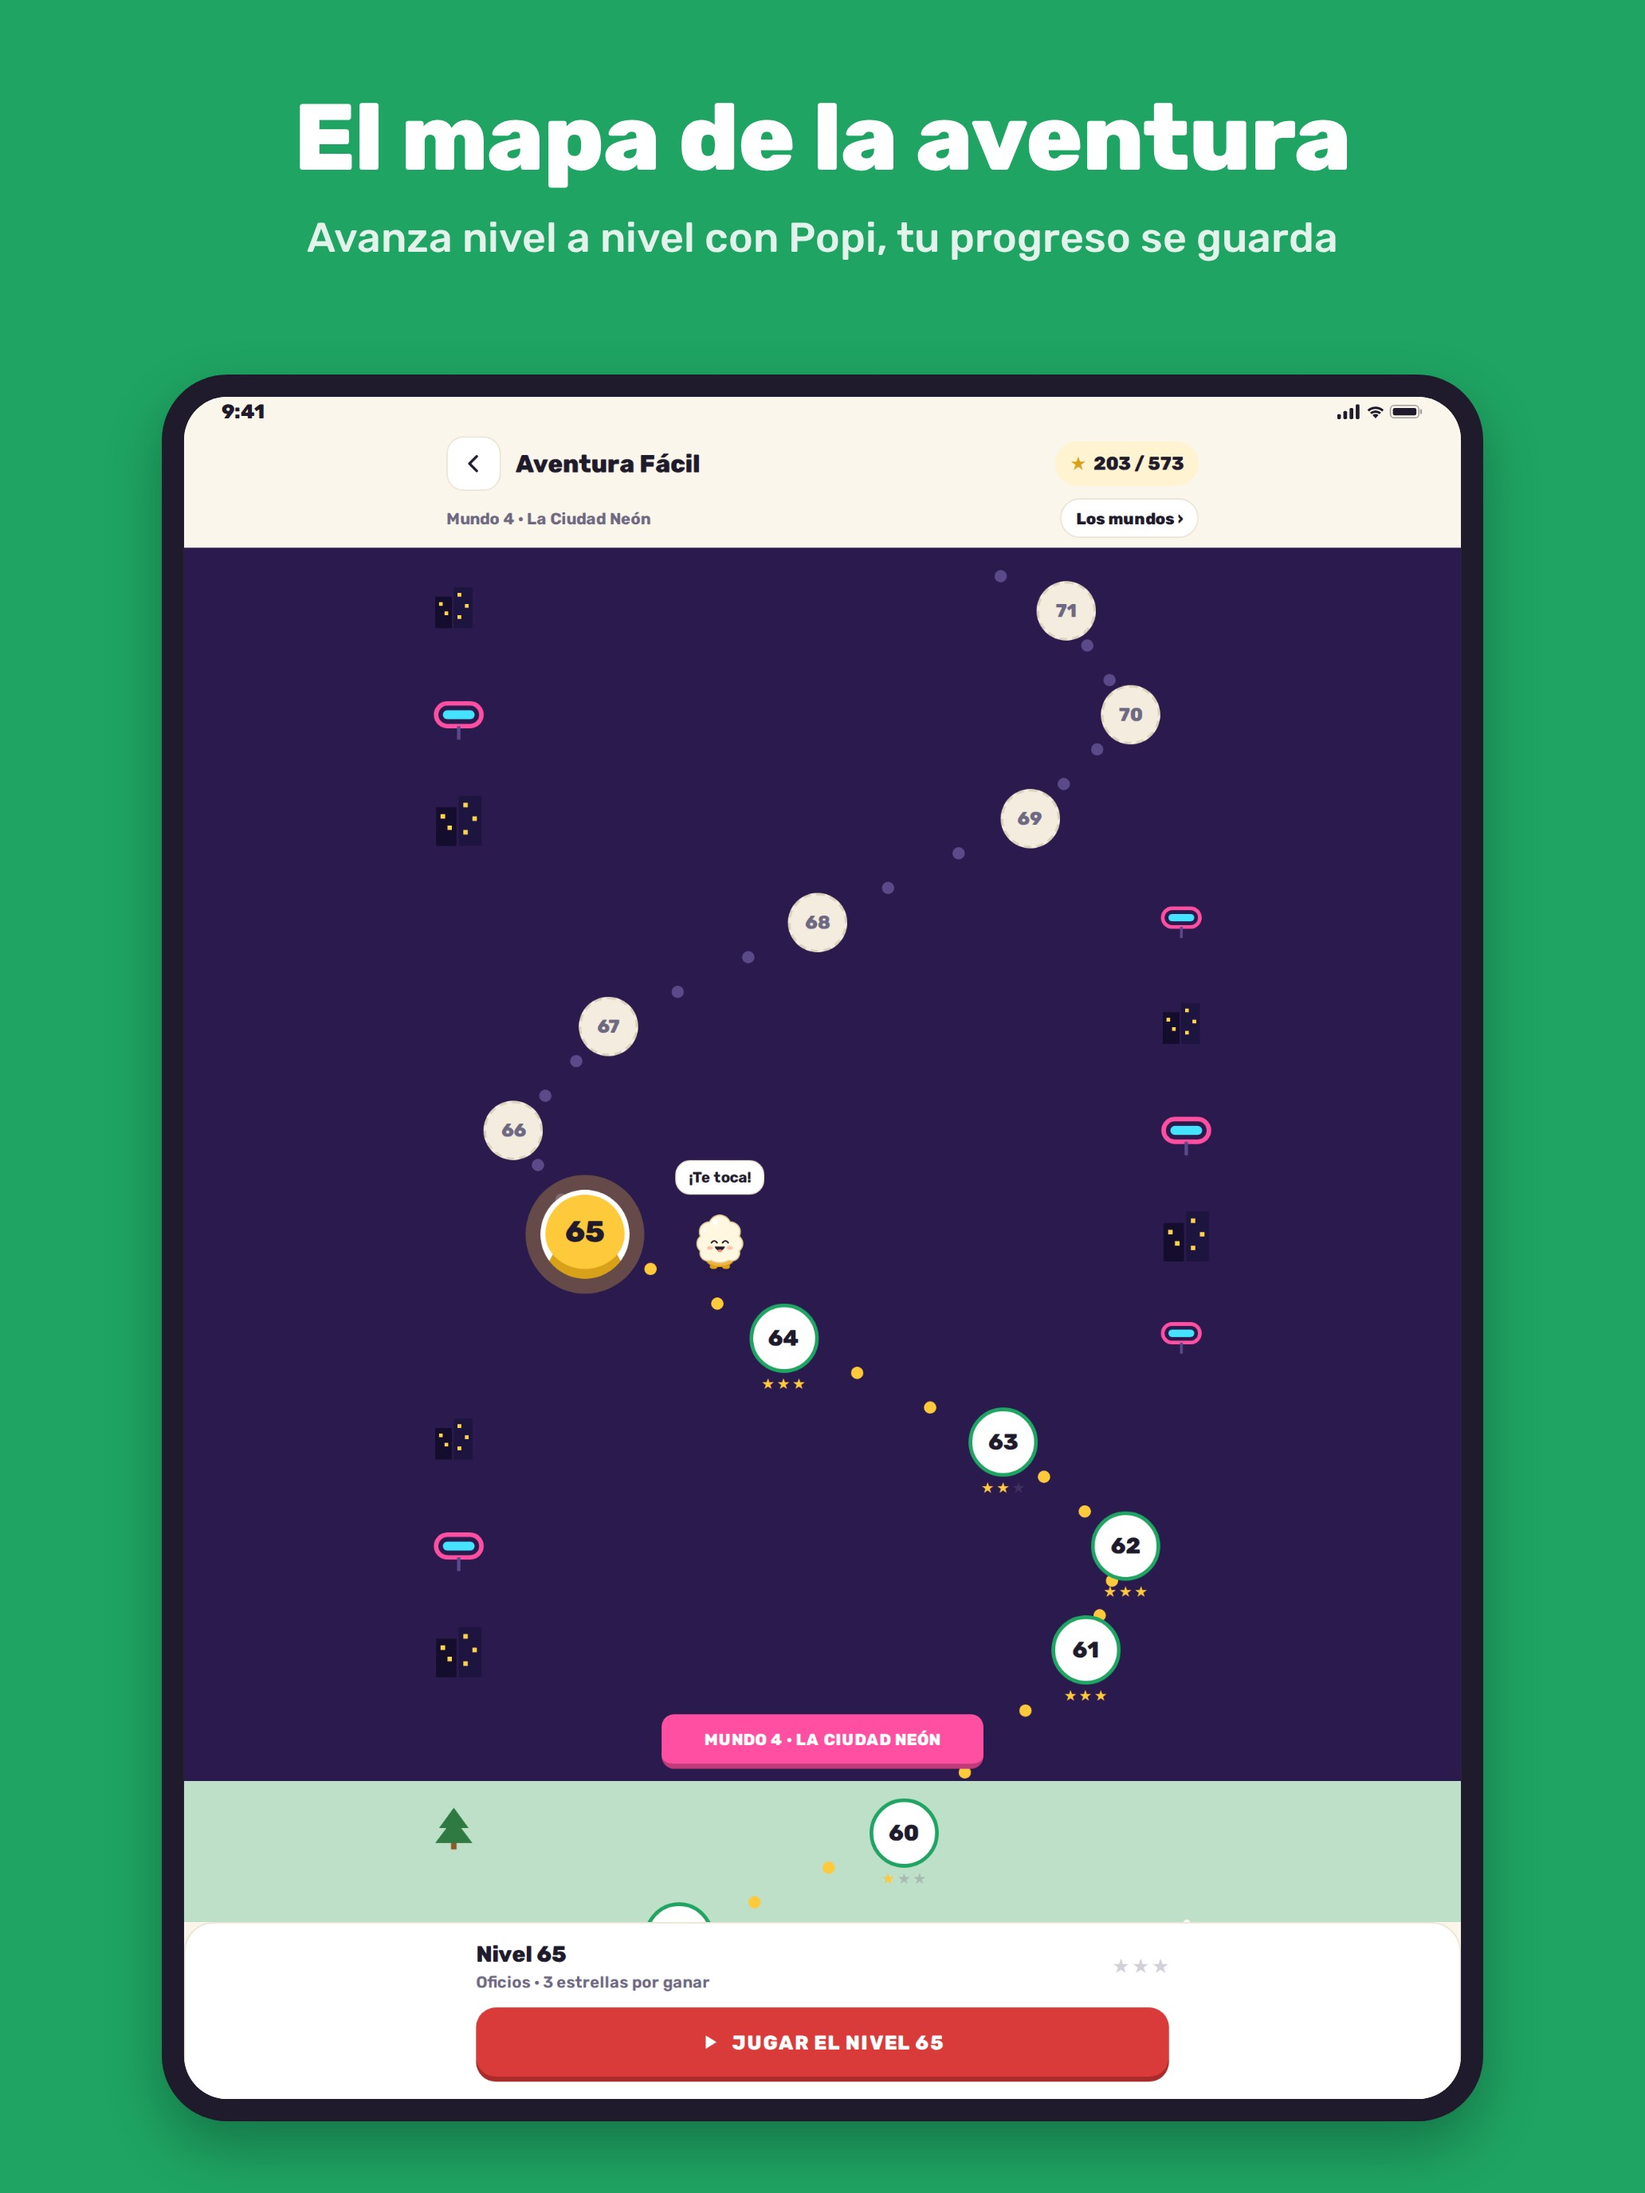
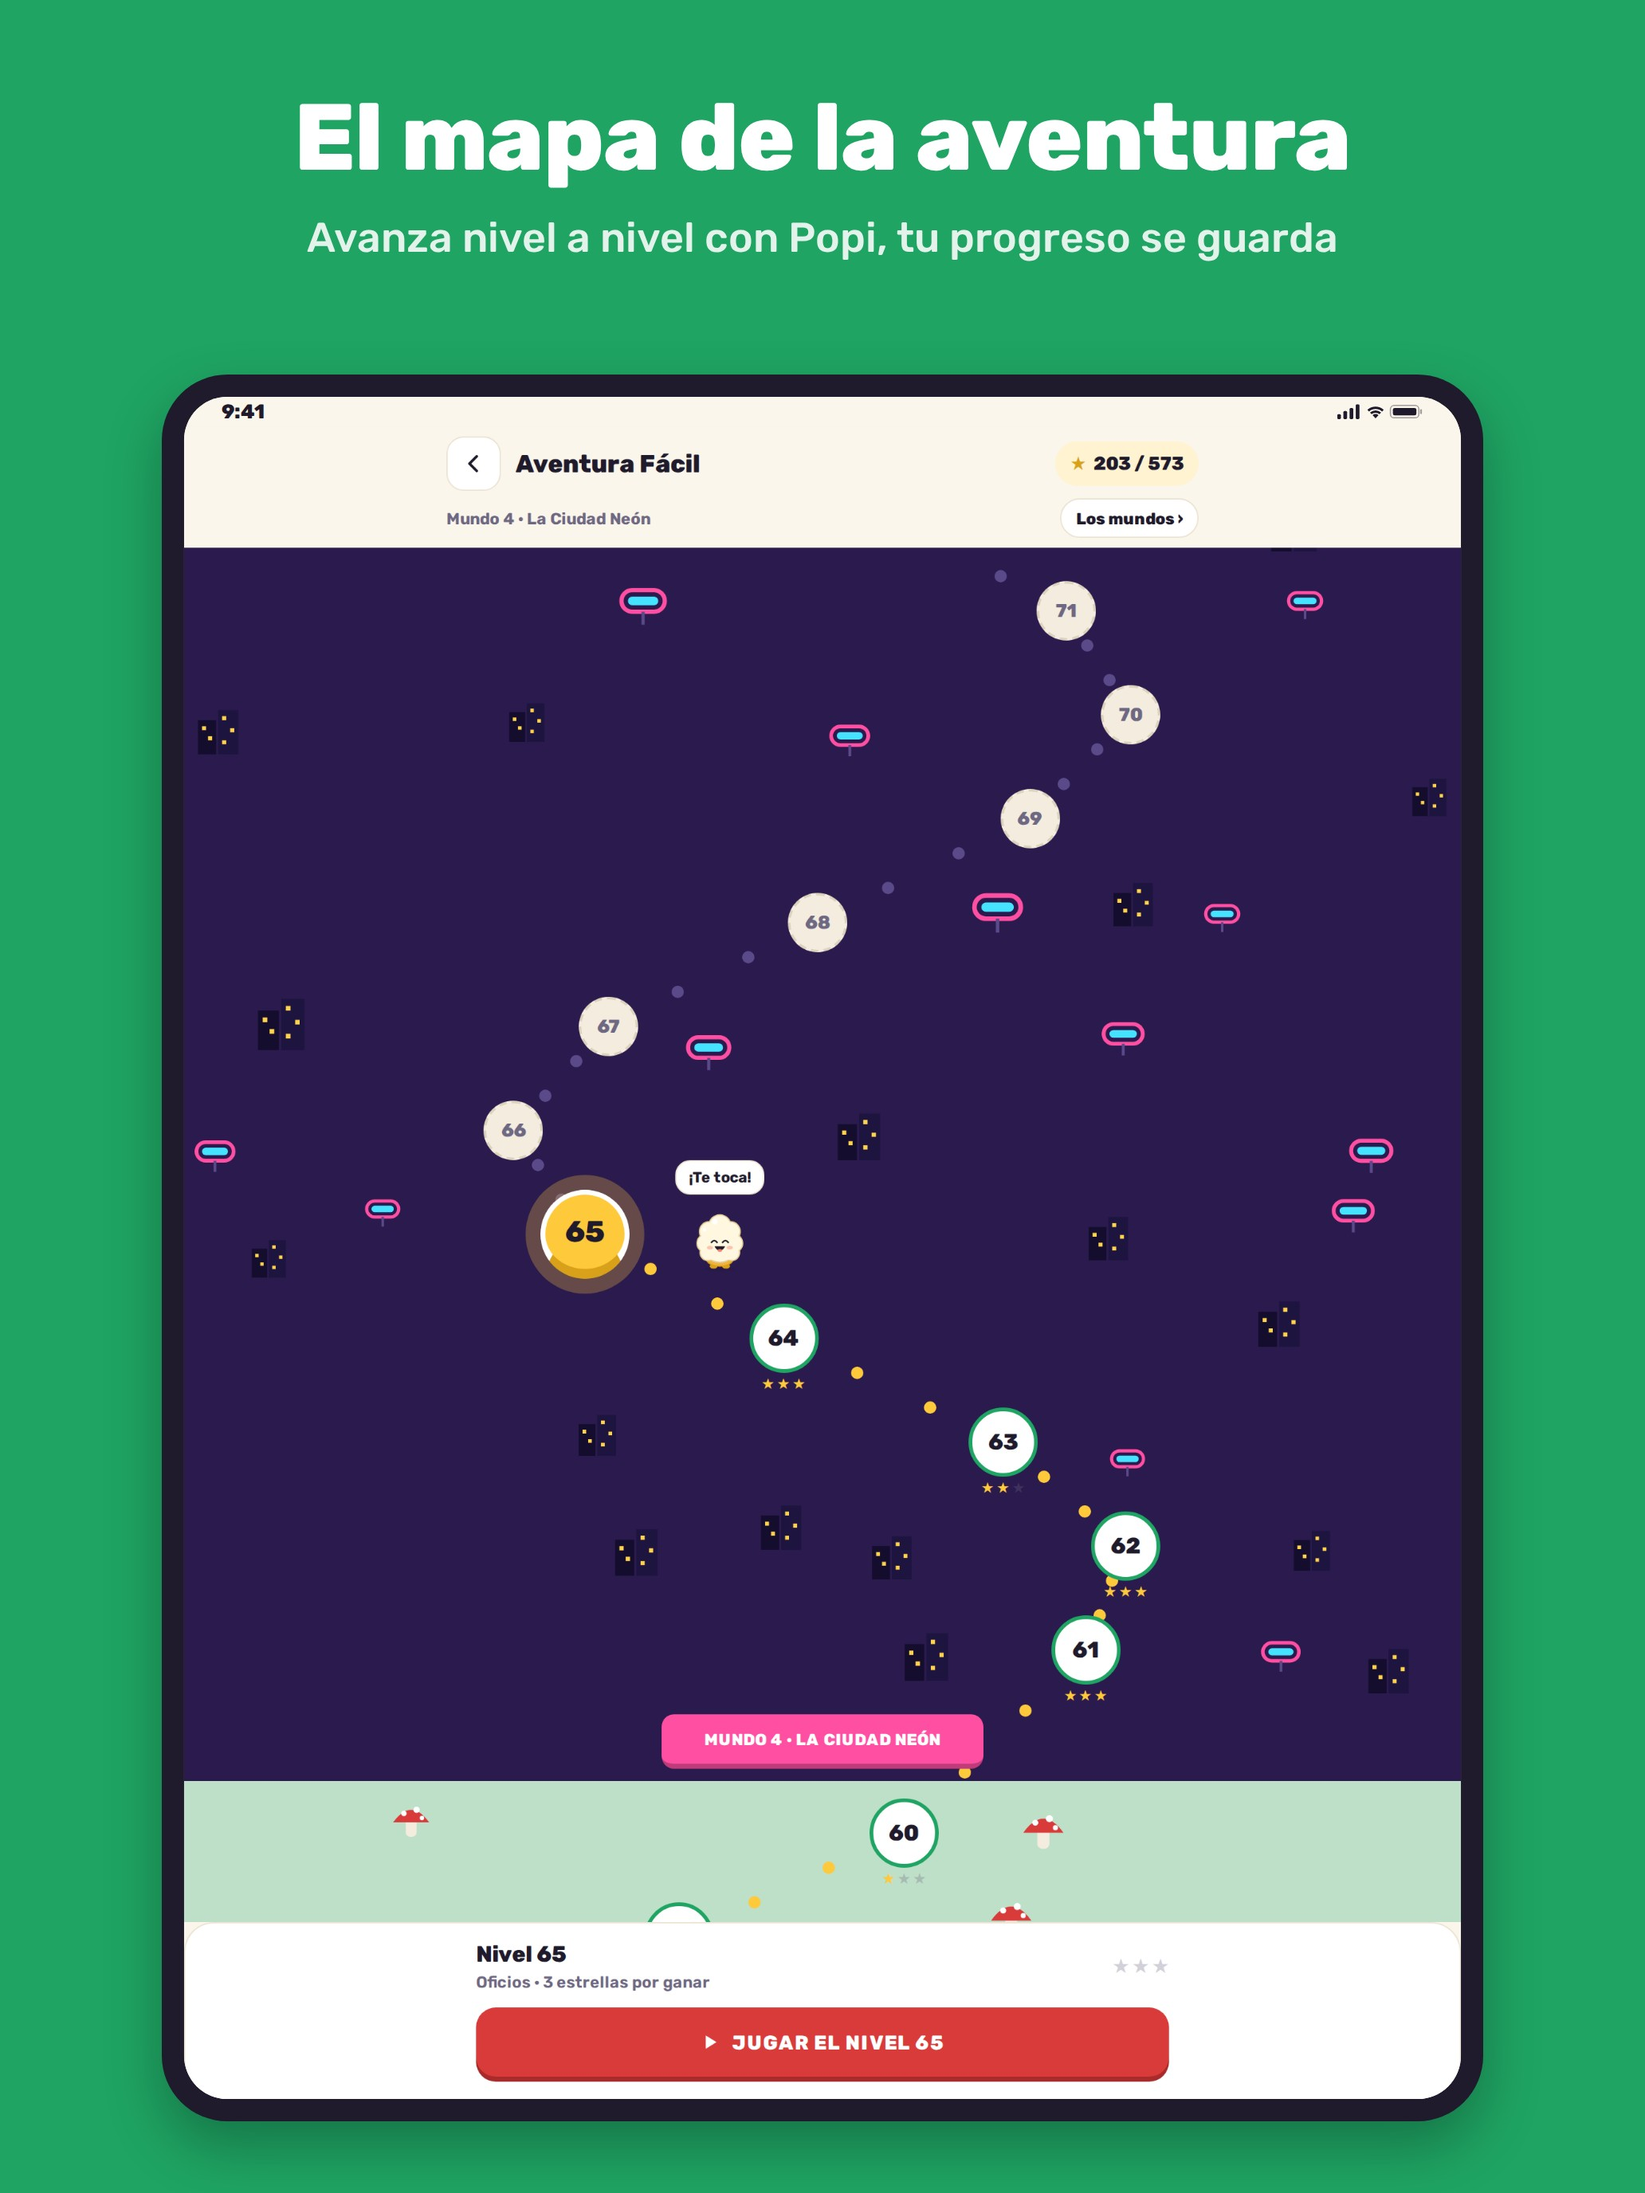
Map scenery scattered over the whole screen, clear of the path; refresh screenshots
Claude-Session: https://claude.ai/code/session_01BLg6ohMHupyk41E3TuaGCT

diff --git a/mobile/src/app/aventure.tsx b/mobile/src/app/aventure.tsx
@@ -8,6 +8,7 @@ import { Popi } from '@/components/mascot';
 import { Btn, Header, Screen, Tap, Txt } from '@/components/ui';
 import { WorldDeco } from '@/components/world-deco';
 import { one } from '@/game/links';
+import { mulberry32 } from '@/game/random';
 import { adventureIds, levelById, TIER_SIZE } from '@/game/rules';
 import type { Difficulty } from '@/game/types';
 import { worldOf } from '@/game/worlds';
@@ -28,33 +29,69 @@ interface MapLayout {
   banners: { tier: number; y: number }[];
   /** The ground of each tier's world, from its top to the bottom of its banner. */
   sections: { tier: number; top: number; bottom: number }[];
-  /** Scenery along the path, on the side the path is not. */
-  decos: { i: number; x: number; y: number }[];
+  /** Scenery scattered over the whole screen width, clear of the path (screen coordinates). */
+  decos: { key: string; tier: number; kind: 0 | 1; size: number; x: number; y: number }[];
   height: number;
 }
 
-const DECO = 44;
+/** How close a drawing may come to a level (centre to centre) and to the trail. */
+const NODE_GAP = 62;
+const TRAIL_GAP = 40;
 
-/** Lays the path out from the top (last level) down to level 1, winding left and right. */
-function layoutMap(total: number, width: number): MapLayout {
+/** Distance from point (x, y) to the segment a-b. */
+function toSegment(x: number, y: number, a: { x: number; y: number }, b: { x: number; y: number }) {
+  const dx = b.x - a.x;
+  const dy = b.y - a.y;
+  const k = Math.max(0, Math.min(1, ((x - a.x) * dx + (y - a.y) * dy) / (dx * dx + dy * dy || 1)));
+  return Math.hypot(x - a.x - k * dx, y - a.y - k * dy);
+}
+
+/**
+ * Lays the path out from the top (last level) down to level 1, winding left and right, in a
+ * column of `width` centred on a screen of `full` width. The scenery is scattered over the
+ * whole screen, always the same for a given size (seeded), and never on the path.
+ */
+function layoutMap(total: number, width: number, full: number): MapLayout {
   const pos: MapLayout['pos'] = new Array(total);
+  const rows: { i: number; top: number }[] = [];
   const banners: MapLayout['banners'] = [];
   const sections: MapLayout['sections'] = [];
-  const decos: MapLayout['decos'] = [];
   const swing = Math.max(0, width / 2 - 70);
+  const shift = (full - width) / 2;
   let y = PAD;
   let top = 0;
   for (let i = total - 1; i >= 0; i--) {
-    const side = Math.sin(i * 0.75);
-    pos[i] = { x: width / 2 + swing * side, y: y + ROW / 2 };
-    // A drawing next to every level, on the side the path is not.
-    decos.push({ i, x: side > 0 ? 4 : width - DECO - 4, y: y + ROW / 2 - DECO / 2 });
+    pos[i] = { x: width / 2 + swing * Math.sin(i * 0.75), y: y + ROW / 2 };
+    rows.push({ i, top: y });
     y += ROW;
     if (i % TIER_SIZE === 0) {
       banners.push({ tier: i / TIER_SIZE, y });
       y += BANNER;
       sections.push({ tier: i / TIER_SIZE, top, bottom: i === 0 ? y + PAD : y });
       top = y;
+    }
+  }
+
+  const decos: MapLayout['decos'] = [];
+  const rng = mulberry32(total * 7919 + Math.round(full));
+  const tries = Math.max(3, Math.round(full / 260));
+  for (const { i, top: rowTop } of rows) {
+    const here = { x: pos[i].x + shift, y: pos[i].y };
+    const near = [pos[i + 1], pos[i - 1]].filter(Boolean).map((q) => ({ x: q.x + shift, y: q.y }));
+    const placed: { x: number; y: number; r: number }[] = [];
+    for (let k = 0; k < tries; k++) {
+      const size = 30 + Math.round(rng() * 16);
+      const x = 6 + rng() * (full - size - 12);
+      const top = rowTop + 4 + rng() * (ROW - size - 8);
+      const cx = x + size / 2;
+      const cy = top + size / 2;
+      const clear =
+        Math.hypot(cx - here.x, cy - here.y) > NODE_GAP &&
+        near.every((q) => Math.hypot(cx - q.x, cy - q.y) > NODE_GAP && toSegment(cx, cy, here, q) > TRAIL_GAP) &&
+        placed.every((o) => Math.hypot(cx - o.x, cy - o.y) > (size / 2 + o.r) * 2);
+      if (!clear) continue;
+      placed.push({ x: cx, y: cy, r: size / 2 });
+      decos.push({ key: `${i}-${k}`, tier: Math.floor(i / TIER_SIZE), kind: rng() < 0.5 ? 0 : 1, size, x, y: top });
     }
   }
   return { pos, banners, sections, decos, height: y + PAD };
@@ -76,7 +113,7 @@ export default function Aventure() {
   const [open, setOpen] = useState<number | null>(null);
   const width = Math.min(screenWidth, tablet ? 640 : 600);
   const ids = useMemo(() => (d ? adventureIds(d) : []), [d]);
-  const map = useMemo(() => layoutMap(ids.length, width), [ids.length, width]);
+  const map = useMemo(() => layoutMap(ids.length, width, screenWidth), [ids.length, width, screenWidth]);
   const scroller = useRef<ScrollView>(null);
   // Scrolled to the current level once both the screen and the path have a size.
   const sized = useRef({ viewport: 0, content: false, done: false });
@@ -105,6 +142,14 @@ export default function Aventure() {
   const onContent = () => {
     sized.current.content = true;
     showCurrent();
+  };
+
+  // Nothing drawn under Popi and the "your turn" bubble, next to the current level.
+  const nearPopi = (x: number, y: number, size: number) => {
+    if (current < 0) return false;
+    const node = map.pos[current];
+    const left = (screenWidth - width) / 2 + (node.x < width / 2 ? node.x + 36 : node.x - 44 - 138);
+    return x + size > left && x < left + 146 && y + size > node.y - 66 && y < node.y + 40;
   };
 
   const play = () => {
@@ -153,15 +198,14 @@ export default function Aventure() {
           {map.sections.map(({ tier, top, bottom }) => (
             <View key={`ground-${tier}`} style={{ position: 'absolute', left: 0, width: screenWidth, top, height: bottom - top, backgroundColor: worldOf(d, tier).bg }} />
           ))}
+          {map.decos.map(({ key, tier, kind, size, x, y }) =>
+            nearPopi(x, y, size) ? null : (
+              <View key={`deco-${key}`} pointerEvents="none" style={{ position: 'absolute', left: x, top: y }}>
+                <WorldDeco kind={worldOf(d, tier).decos[kind]} size={size} />
+              </View>
+            ),
+          )}
           <View style={{ position: 'absolute', left: (screenWidth - width) / 2, top: 0, width, height: map.height }}>
-            {map.decos.map(({ i, x, y }) => {
-              const world = worldOf(d, Math.floor(i / TIER_SIZE));
-              return (
-                <View key={`deco-${i}`} pointerEvents="none" style={{ position: 'absolute', left: x, top: y }}>
-                  <WorldDeco kind={world.decos[i % 2]} size={i % 4 < 2 ? DECO : DECO - 8} />
-                </View>
-              );
-            })}
             {/* The trail: small dots between levels, gold where the player went. */}
             {map.pos.slice(0, -1).map((a, i) => {
               const b = map.pos[i + 1];
